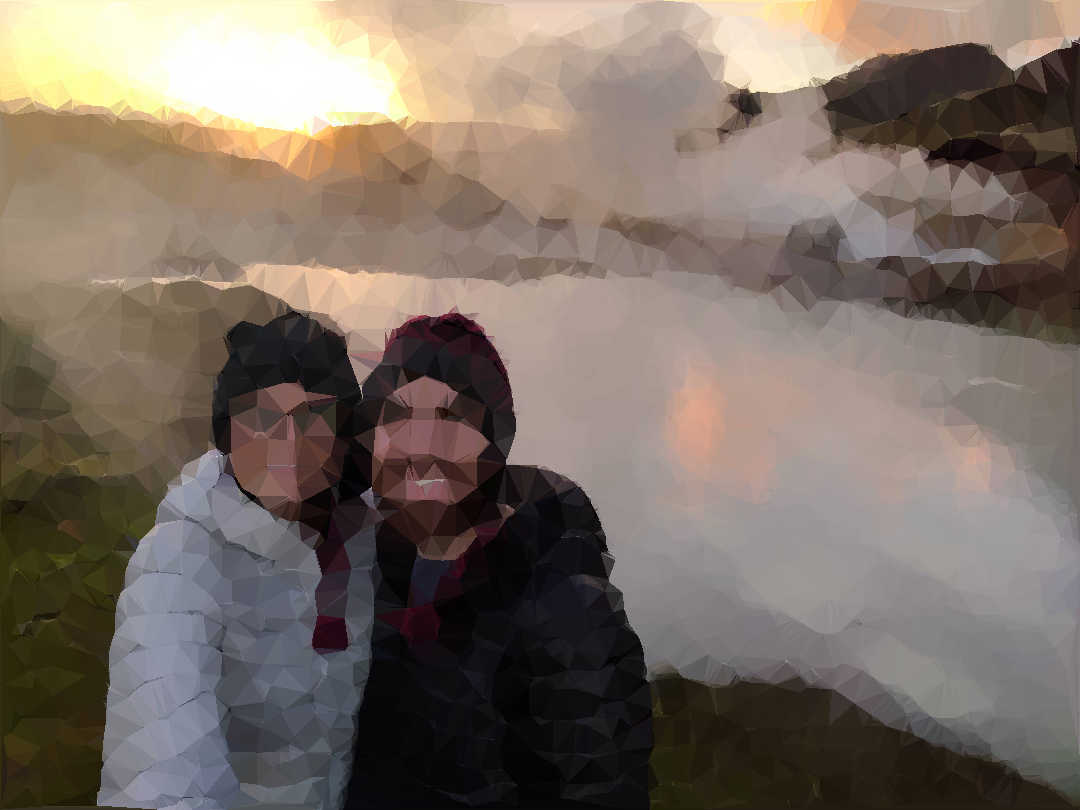
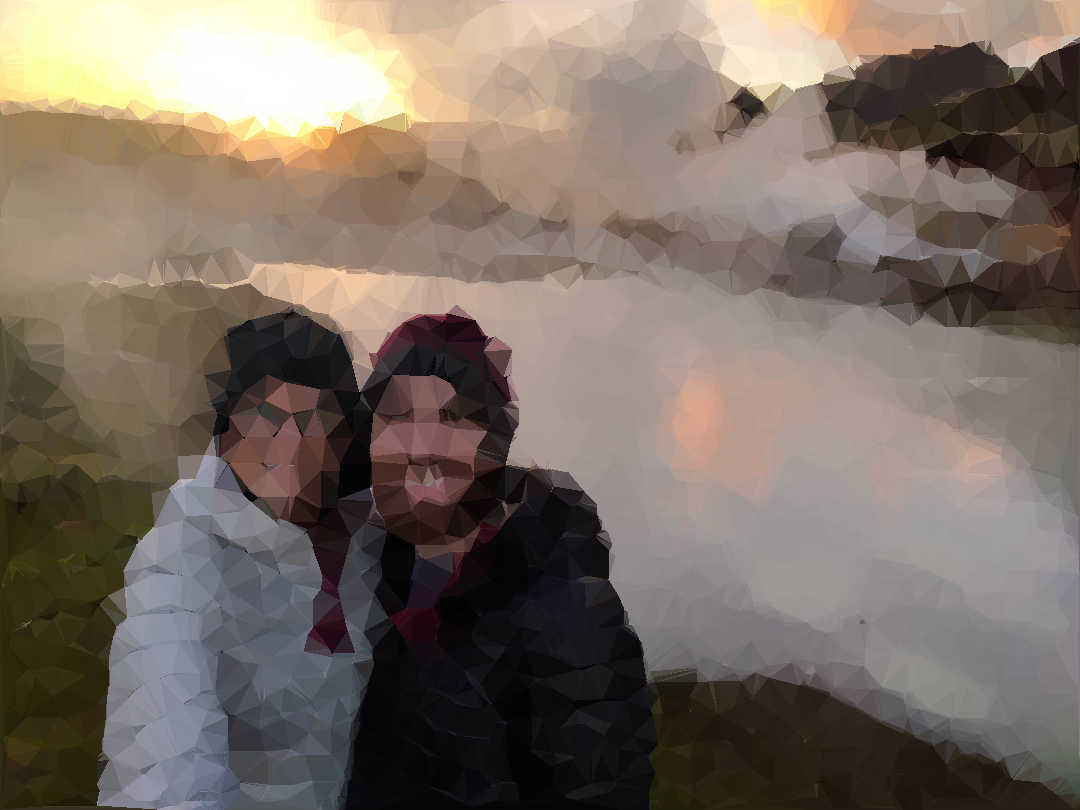
less outliering

diff --git a/index.js b/index.js
@@ -21,15 +21,8 @@ module.exports = function(img, size) {
     var start = now();
     var stats = { created: 0 };
     polys = updatePolys(polys, points, stats); // this returns a sorted list of polygons
-    var outlier = polys.filter(p => p.getScore() > 0) // make sure they are big enough
-      .slice(0, 10) // only work with the top ten
-      .map(p => p.getOutlier(points)) // get each ones outlier point
-      .reduce((m, p) => m.d > p.d ? m : p, {}).p; // find the best point and get it
-    if (outlier === undefined) {
-      console.log('cannot find next point. stopping...');
-      console.log(stats);
-      break;
-    }
+
+    var outlier = polys[0].getOutlier(points).p;
     points.push([outlier.x, outlier.y]);
     numTris = polys.length;
     numLeft = polys.filter(p => p.getScore() > 0).length;
